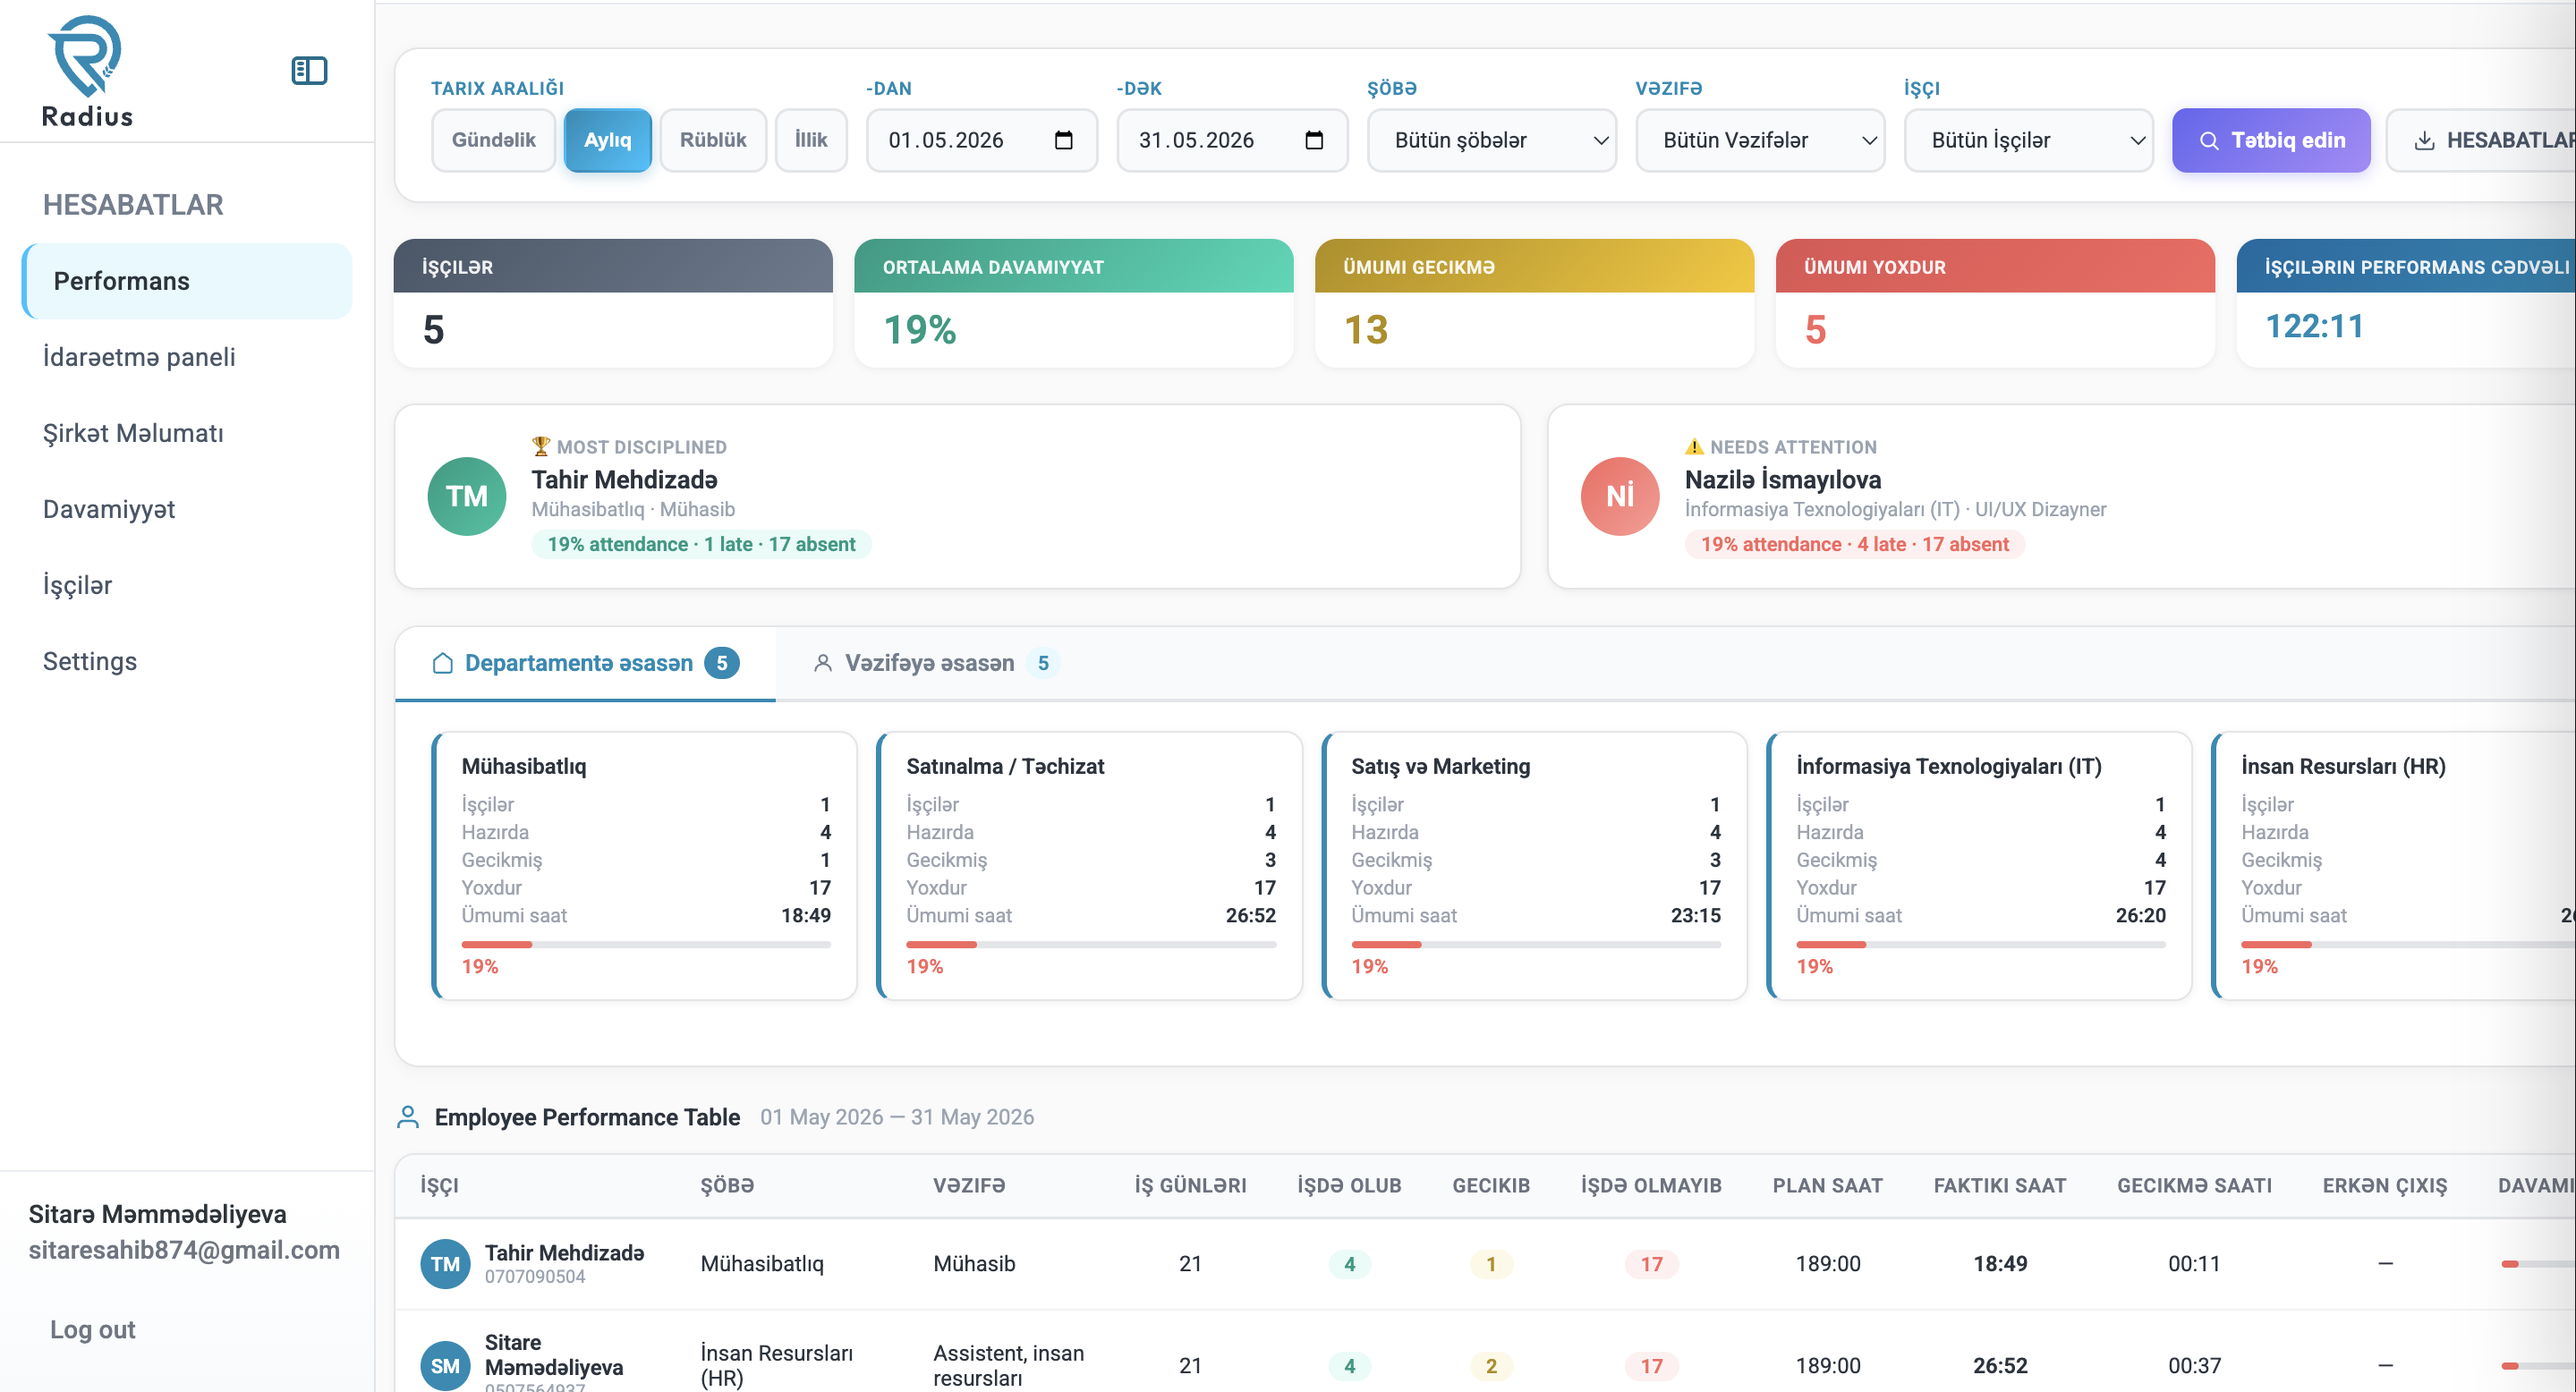
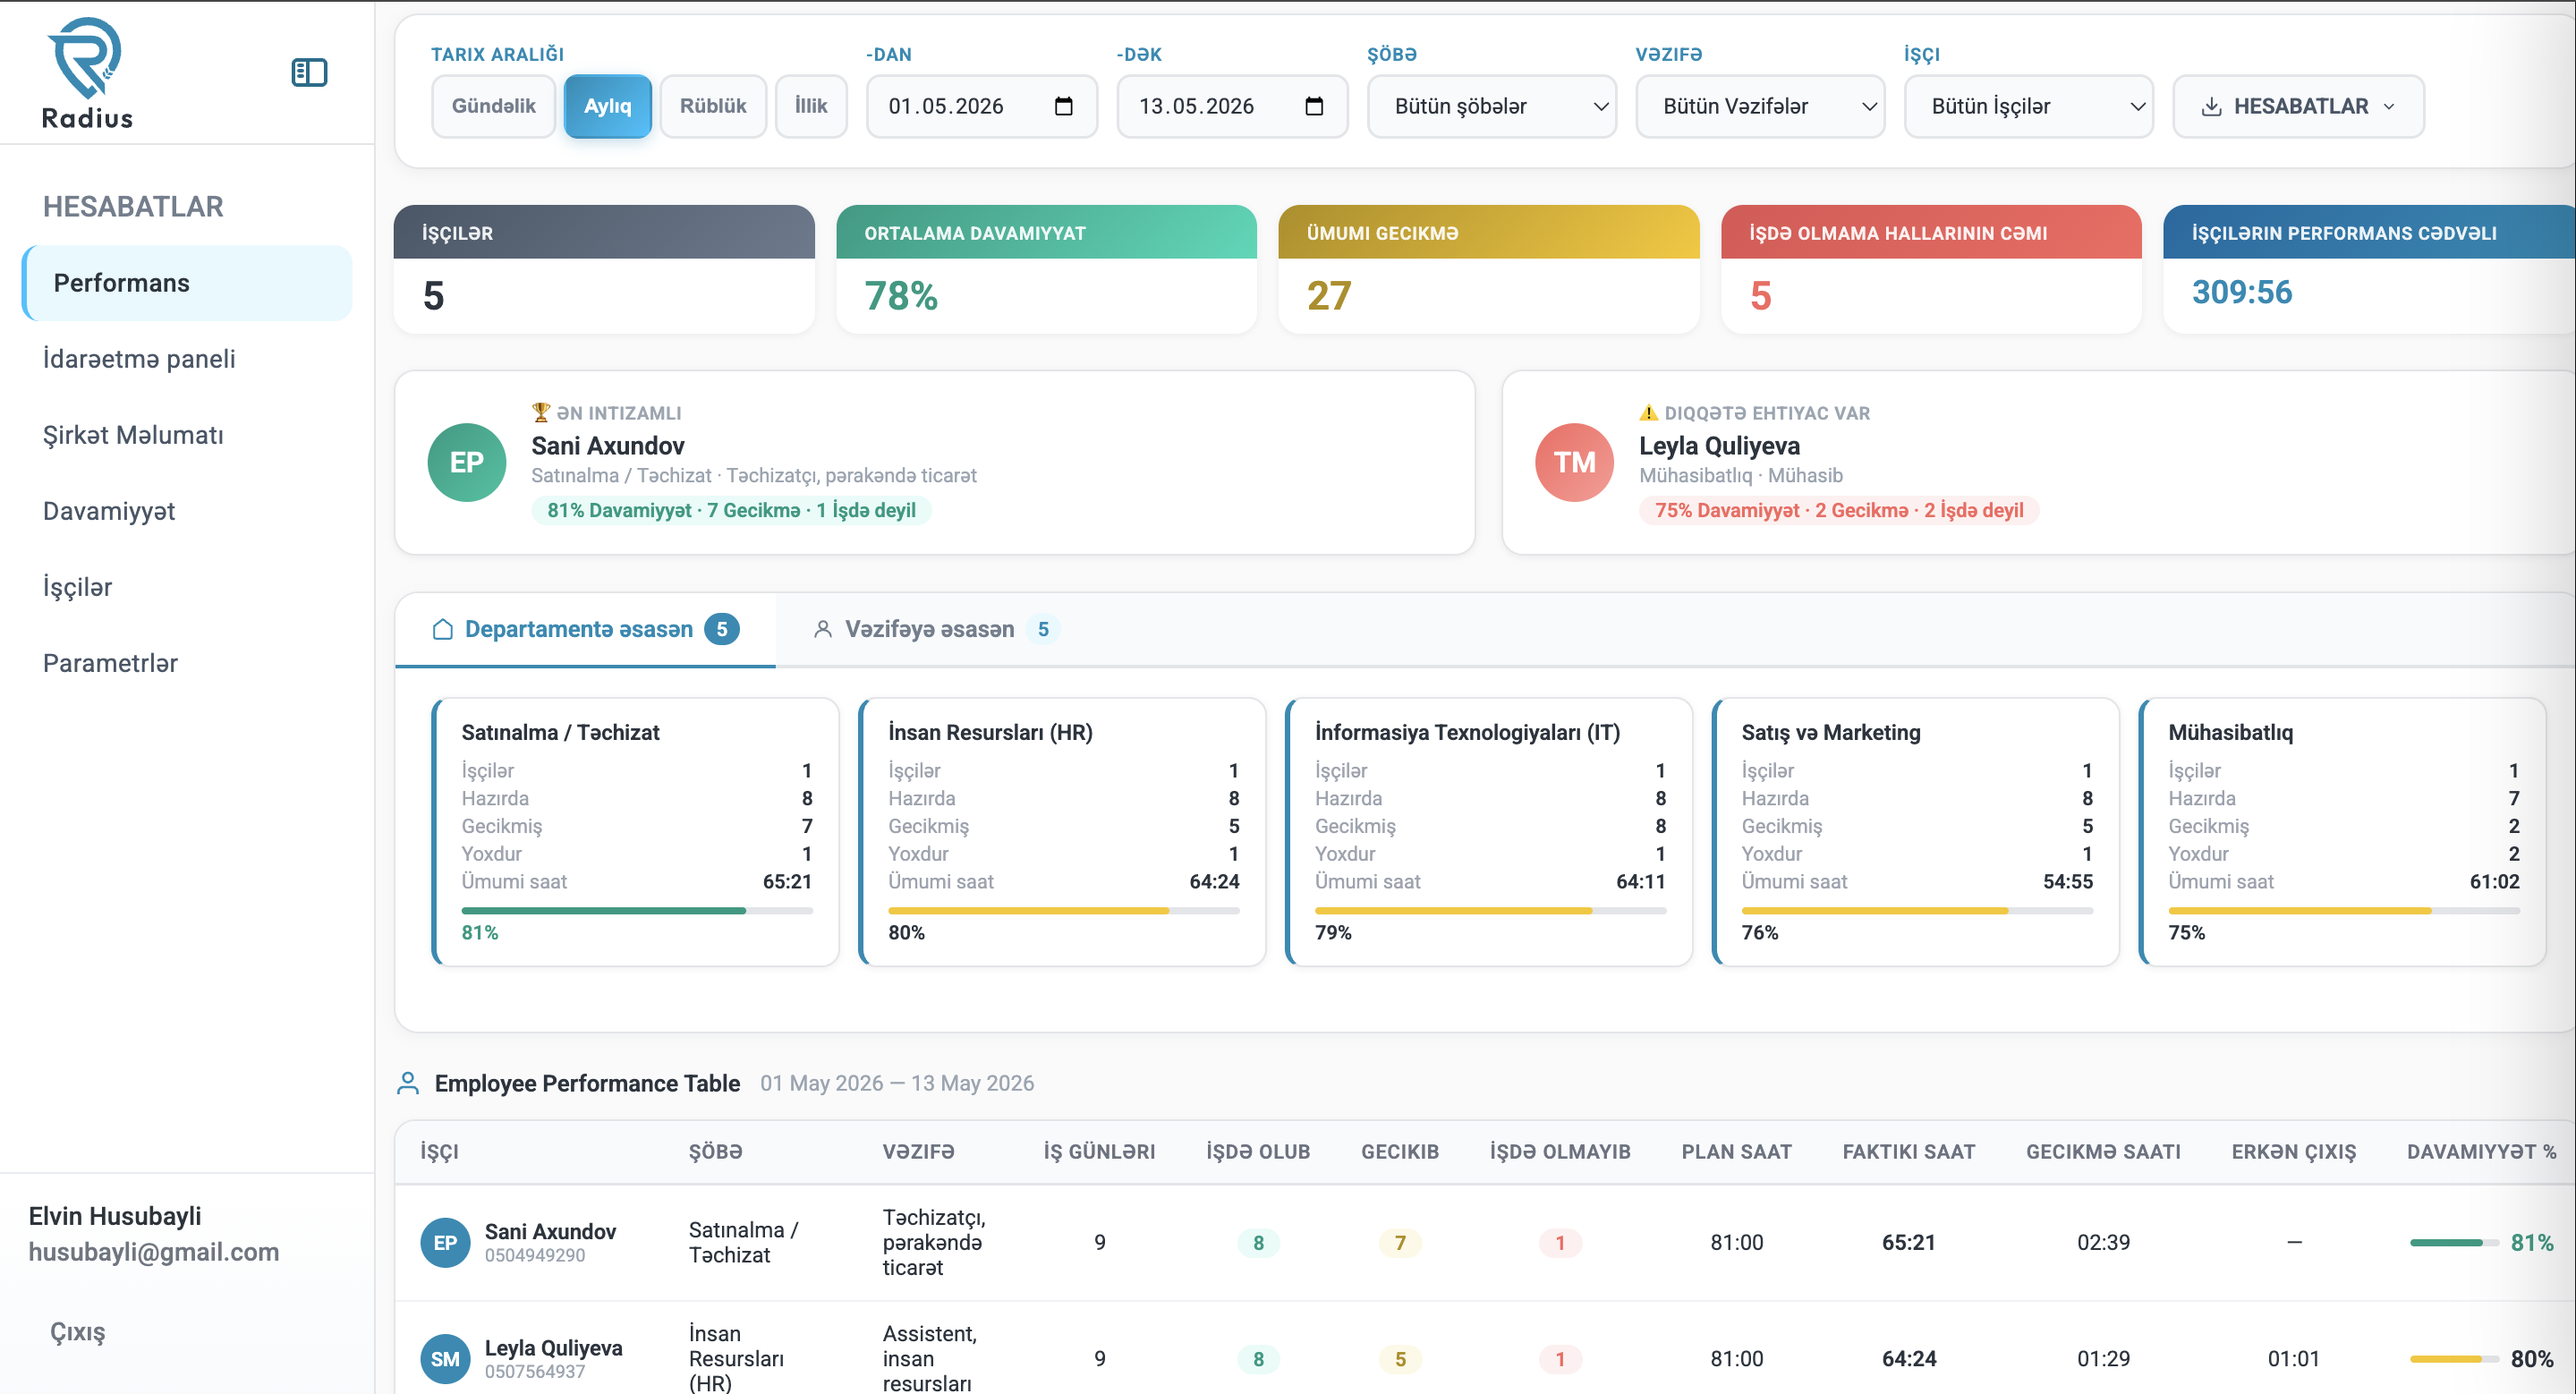
changed slide

diff --git a/index.html b/index.html
@@ -3,7 +3,7 @@
   <head>
     <meta charset="UTF-8" />
     <meta name="viewport" content="width=device-width, initial-scale=1.0" />
-    <title>Radius HR — Presentation</title>
+    <title>Radius — Presentation</title>
     <link rel="preconnect" href="https://fonts.googleapis.com" />
     <link rel="preconnect" href="https://fonts.gstatic.com" crossorigin />
     <link
@@ -29,7 +29,6 @@
           </div>
           <div class="sl-cover__left">
             <div class="sl-cover__brand">
-              <div class="sl-cover__logo">R</div>
               <span>Radius</span>
             </div>
             <div class="sl-cover__eyebrow">HR Management Platform</div>
@@ -504,37 +503,10 @@
           </div>
         </section> -->
 
-        <!-- 5. DASHBOARD -->
-        <section class="sl-screen sl-screen--blue">
-          <div class="sl-screen__head">
-            <div>
-              <div class="sl-eyebrow">İşçi İdarəetməsi</div>
-              <h2 class="sl-title">İşçi əlavə et, məlumatları idarə et</h2>
-            </div>
-            <div class="sl-screen__pills">
-              <span class="sl-screen__pill">Ad / Soyad</span>
-              <span class="sl-screen__pill">Şöbə / Vəzifə</span>
-              <span class="sl-screen__pill">İş saatları</span>
-            </div>
-          </div>
-          <div class="sl-screen__frame">
-            <div class="sl-screen__bar">
-              <span class="md r"></span><span class="md y"></span
-              ><span class="md g"></span
-              ><span class="mu">radius.hr / add-employee</span>
-            </div>
-            <img
-              src="images/add-employee.png"
-              alt="Add Employee"
-              class="sl-screen__img"
-            />
-          </div>
-        </section>
-
-        <!-- 6. MOBILE -->
+        <!-- 4. MOBILE + QR -->
         <section class="sl-mobile">
           <div class="sl-mobile__left">
-            <div class="sl-eyebrow sl-eyebrow--light">Mobil Tətbiq</div>
+            <div class="sl-eyebrow sl-eyebrow--light">Mobil Tətbiq & QR Sistem</div>
             <h2 class="sl-title sl-title--light">
               İşçilər üçün sadə,<br />sürətli check-in
             </h2>
@@ -545,30 +517,37 @@
               </div>
               <div class="sl-mobile__feat">
                 <div class="sl-mobile__fnum">2</div>
-                <div><b>QR Skan</b> — Şirkətin QR kodunu oxut</div>
+                <div><b>QR Skan</b> — Şirkətin unikal QR kodunu oxut</div>
               </div>
               <div class="sl-mobile__feat">
                 <div class="sl-mobile__fnum">3</div>
-                <div><b>Üz Doğrulama</b> — Selfie ilə kimlik</div>
+                <div><b>GPS Doğrulama</b> — Yalnız ofis ərazisində check-in</div>
               </div>
               <div class="sl-mobile__feat">
                 <div class="sl-mobile__fnum">4</div>
-                <div><b>Tamamlandı</b> — Sistem qeyd edir</div>
+                <div><b>Üz Doğrulama</b> — Selfie ilə kimlik təsdiqi</div>
               </div>
+              <div class="sl-mobile__feat">
+                <div class="sl-mobile__fnum">5</div>
+                <div><b>Tamamlandı</b> — Sistem avtomatik qeyd edir</div>
+              </div>
+            </div>
+            <div class="sl-mobile__radius-preview">
+              <div class="sl-mobile__radius-bar">
+                <span class="md r"></span><span class="md y"></span><span class="md g"></span>
+                <span class="mu">Set Local Area Radius</span>
+              </div>
+              <img src="images/radius-map.png" alt="Radius Map" class="sl-mobile__radius-img"/>
             </div>
           </div>
           <div class="sl-mobile__right">
-            <div class="sl-mobile__stack">
-              <img
-                src="images/mobile-1.png"
-                alt="Mobile screens 1"
-                class="sl-mobile__stack-img"
-              />
-              <img
-                src="images/mobile-2.png"
-                alt="Mobile screens 2"
-                class="sl-mobile__stack-img"
-              />
+            <div class="sl-mobile__grid6">
+              <img src="images/1.PNG" alt="Step 1" class="sl-mobile__grid6-img"/>
+              <img src="images/2.PNG" alt="Step 2" class="sl-mobile__grid6-img"/>
+              <img src="images/3.PNG" alt="Step 3" class="sl-mobile__grid6-img"/>
+              <img src="images/4.PNG" alt="Step 4" class="sl-mobile__grid6-img"/>
+              <img src="images/5.PNG" alt="Step 5" class="sl-mobile__grid6-img"/>
+              <img src="images/6.PNG" alt="Step 6" class="sl-mobile__grid6-img"/>
             </div>
           </div>
         </section>
@@ -609,12 +588,8 @@
             </div>
             <div class="sl-screen__pills">
               <span class="sl-screen__pill sl-screen__pill--green">İşdə ✓</span>
-              <span class="sl-screen__pill sl-screen__pill--yellow"
-                >Gecikib ⏰</span
-              >
-              <span class="sl-screen__pill sl-screen__pill--red"
-                >İşdə deyil ✗</span
-              >
+              <span class="sl-screen__pill sl-screen__pill--yellow">Gecikib ⏰</span>
+              <span class="sl-screen__pill sl-screen__pill--red">İşdə deyil ✗</span>
             </div>
           </div>
           <div class="sl-screen__frame">
@@ -628,61 +603,6 @@
               alt="Attendance"
               class="sl-screen__img"
             />
-          </div>
-        </section>
-
-        <!-- 7. QR + RADIUS -->
-        <section class="sl-topbottom sl-topbottom--blue">
-          <div class="sl-topbottom__top">
-            <div class="sl-topbottom__info">
-              <div class="sl-eyebrow">Şirkət İdarəetməsi</div>
-              <h2 class="sl-title">QR Kod + Radius Sistemi</h2>
-            </div>
-            <div class="sl-topbottom__feats">
-              <div class="sl-feat">
-                <div class="sl-feat__icon" style="background: #e0f2fe">🔲</div>
-                <div>
-                  <div class="sl-feat__t">QR Kod Generasiyası</div>
-                  <div class="sl-feat__d">
-                    Hər şirkətin unikal QR kodu. İstənilən vaxt yenilənə bilər.
-                  </div>
-                </div>
-              </div>
-              <div class="sl-feat">
-                <div class="sl-feat__icon" style="background: #dcfce7">📍</div>
-                <div>
-                  <div class="sl-feat__t">Radius Zonası</div>
-                  <div class="sl-feat__d">
-                    Xəritədə ofis ərazisi müəyyən edilir. Check-in yalnız bu
-                    zonada mümkündür.
-                  </div>
-                </div>
-              </div>
-              <div class="sl-feat">
-                <div class="sl-feat__icon" style="background: #fef9c3">🗺</div>
-                <div>
-                  <div class="sl-feat__t">Çoxlu Pin</div>
-                  <div class="sl-feat__d">
-                    Bir şirkətin bir neçə ofisi ola bilər. Hər pin üçün ayrı
-                    radius.
-                  </div>
-                </div>
-              </div>
-            </div>
-          </div>
-          <div class="sl-topbottom__bottom">
-            <div class="sl-screen__frame">
-              <div class="sl-screen__bar">
-                <span class="md r"></span><span class="md y"></span
-                ><span class="md g"></span
-                ><span class="mu">Set Local Area Radius</span>
-              </div>
-              <img
-                src="images/radius-map.png"
-                alt="Radius"
-                class="sl-topbottom__img"
-              />
-            </div>
           </div>
         </section>
 
@@ -739,7 +659,7 @@
           </div>
         </section> -->
 
-        <!-- 12. CTA -->
+        <!-- 10. CTA -->
         <section class="sl-cta">
           <div class="sl-cta__circles">
             <div class="sl-cta__c sl-cta__c--1"></div>
@@ -751,7 +671,7 @@
             <div class="sl-cta__grid">
               <div class="sl-cta__card">
                 <div class="sl-cta__card-icon">🚀</div>
-                <div class="sl-cta__card-title">Radius HR</div>
+                <div class="sl-cta__card-title">Radius</div>
                 <ul class="sl-cta__list">
                   <li>Limitsiz işçi</li>
                   <li>QR + GPS check-in</li>
@@ -805,8 +725,8 @@
             <div class="sl-end__c sl-end__c--2"></div>
           </div>
           <div class="sl-end__inner">
-            <div class="sl-end__logo">R</div>
-            <h2 class="sl-end__title">Radius HR</h2>
+            <img src="images/logo.svg" alt="Radius Logo" class="sl-end__logo-img"/>
+            <!-- <h2 class="sl-end__title">Radius</h2> -->
             <p class="sl-end__sub">
               İşçilərinizin davamiyyətini idarə etməyin ən asan yolu
             </p>
@@ -819,6 +739,7 @@
         </section>
       </div>
     </div>
+    <img src="images/logo.svg" alt="Radius Logo" class="global-logo"/>
     <script src="https://cdn.jsdelivr.net/npm/reveal.js@5.1.0/dist/reveal.js"></script>
     <script src="main.js"></script>
   </body>

diff --git a/style.css b/style.css
@@ -107,7 +107,8 @@
 /* COVER */
 .sl-cover {
   display: grid !important;
-  grid-template-columns: 1fr 1.1fr;
+  grid-template-columns: 1fr 1.2fr;
+  grid-template-rows: 1fr;
   align-items: center;
   padding: 36px 48px !important;
   gap: 36px;
@@ -115,6 +116,10 @@
   background: linear-gradient(135deg, #002b3d 0%, #004d6e 40%, #006c8c 70%, #0099c6 100%);
   position: relative;
   overflow: hidden;
+}
+
+.sl-cover__circles {
+  display: none;
 }
 
 .sl-cover__c {
@@ -261,7 +266,7 @@
   background: rgba(255, 255, 255, .12);
   border: 1.5px solid rgba(255, 255, 255, .2);
   color: #fff;
-  font-size: .68em;
+  font-size: .78em;
   font-weight: 600;
   padding: 6px 14px;
   border-radius: 20px;
@@ -282,9 +287,10 @@
 .sl-cover__mockup-img {
   width: 100%;
   display: block;
-  object-fit: cover;
+  object-fit: contain;
   object-position: top center;
   max-height: 340px;
+  background: #f8fafc;
 }
 
 .mock-bar {
@@ -840,7 +846,7 @@
 .sl-mobile {
   display: grid !important;
   grid-template-columns: 1fr 1.8fr;
-  align-items: start;
+  align-items: stretch;
   padding: 28px 46px !important;
   gap: 30px;
   height: 100%;
@@ -905,6 +911,8 @@
 .sl-mobile__right {
   position: relative;
   z-index: 2;
+  overflow: hidden;
+  min-height: 0;
 }
 
 .sl-mobile__strip {
@@ -1264,7 +1272,7 @@
 }
 
 .sl-cover__trust-item span {
-  font-size: .62em;
+  font-size: .72em;
   color: rgba(255, 255, 255, .8);
   font-weight: 500;
   white-space: nowrap;
@@ -1418,9 +1426,6 @@
 }
 
 /* Cover mockup bigger */
-.sl-cover {
-  grid-template-columns: 1fr 1.2fr !important;
-}
 
 /* Problem items */
 .sl-problem__item {
@@ -1788,3 +1793,48 @@
 .sl-combo__right .sl-eyebrow::before{background:rgba(255,255,255,.5);}
 .sl-combo__right .sl-title{color:#fff!important;margin-bottom:10px!important;}
 .sl-combo__right .sl-screen__frame{flex:1;min-height:0;}
+
+/* Mobile slide — radius map mini preview */
+.sl-mobile__left{display:flex;flex-direction:column;gap:0;position:relative;z-index:2;}
+.sl-mobile__radius-preview{margin-top:12px;background:#1e293b;border-radius:10px;overflow:hidden;box-shadow:0 4px 16px rgba(0,0,0,.35);width:100%;}
+.sl-mobile__radius-bar{background:#334155;padding:5px 10px;display:flex;align-items:center;gap:5px;}
+.sl-mobile__radius-img{width:100%;display:block;height:200px;object-fit:cover;object-position:center;}
+
+/* Global logo — bütün slide-larda görünür */
+.global-logo {
+  position: fixed;
+  top: 16px;
+  right: 20px;
+  width: 80px;
+  height: auto;
+  z-index: 9999;
+  pointer-events: none;
+  opacity: 0.9;
+}
+
+/* End slide logo image */
+.sl-end__logo-img {
+  width: 80px;
+  height: auto;
+  margin: 0 auto 16px;
+  display: block;
+}
+
+/* Mobile 6 image grid */
+.sl-mobile__grid6 {
+  display: grid;
+  grid-template-columns: repeat(3, 1fr);
+  grid-template-rows: repeat(2, auto);
+  gap: 8px;
+  height: 100%;
+  overflow: hidden;
+  align-content: center;
+}
+.sl-mobile__grid6-img {
+  width: 100%;
+  display: block;
+  border-radius: 10px;
+  object-fit: contain;
+  max-height: 260px;
+  box-shadow: 0 4px 16px rgba(0,0,0,.3);
+}

diff --git a/main.js b/main.js
@@ -13,6 +13,17 @@ Reveal.initialize({
   autoAnimateDuration: 0.6,
 });
 
+// Hide global logo on last slide
+Reveal.on('slidechanged', function(event) {
+  const logo = document.querySelector('.global-logo');
+  if (!logo) return;
+  if (event.currentSlide.classList.contains('sl-end')) {
+    logo.style.display = 'none';
+  } else {
+    logo.style.display = 'block';
+  }
+});
+
 // Typewriter effect
 const phrases = [
   'real vaxtda izləyin',
